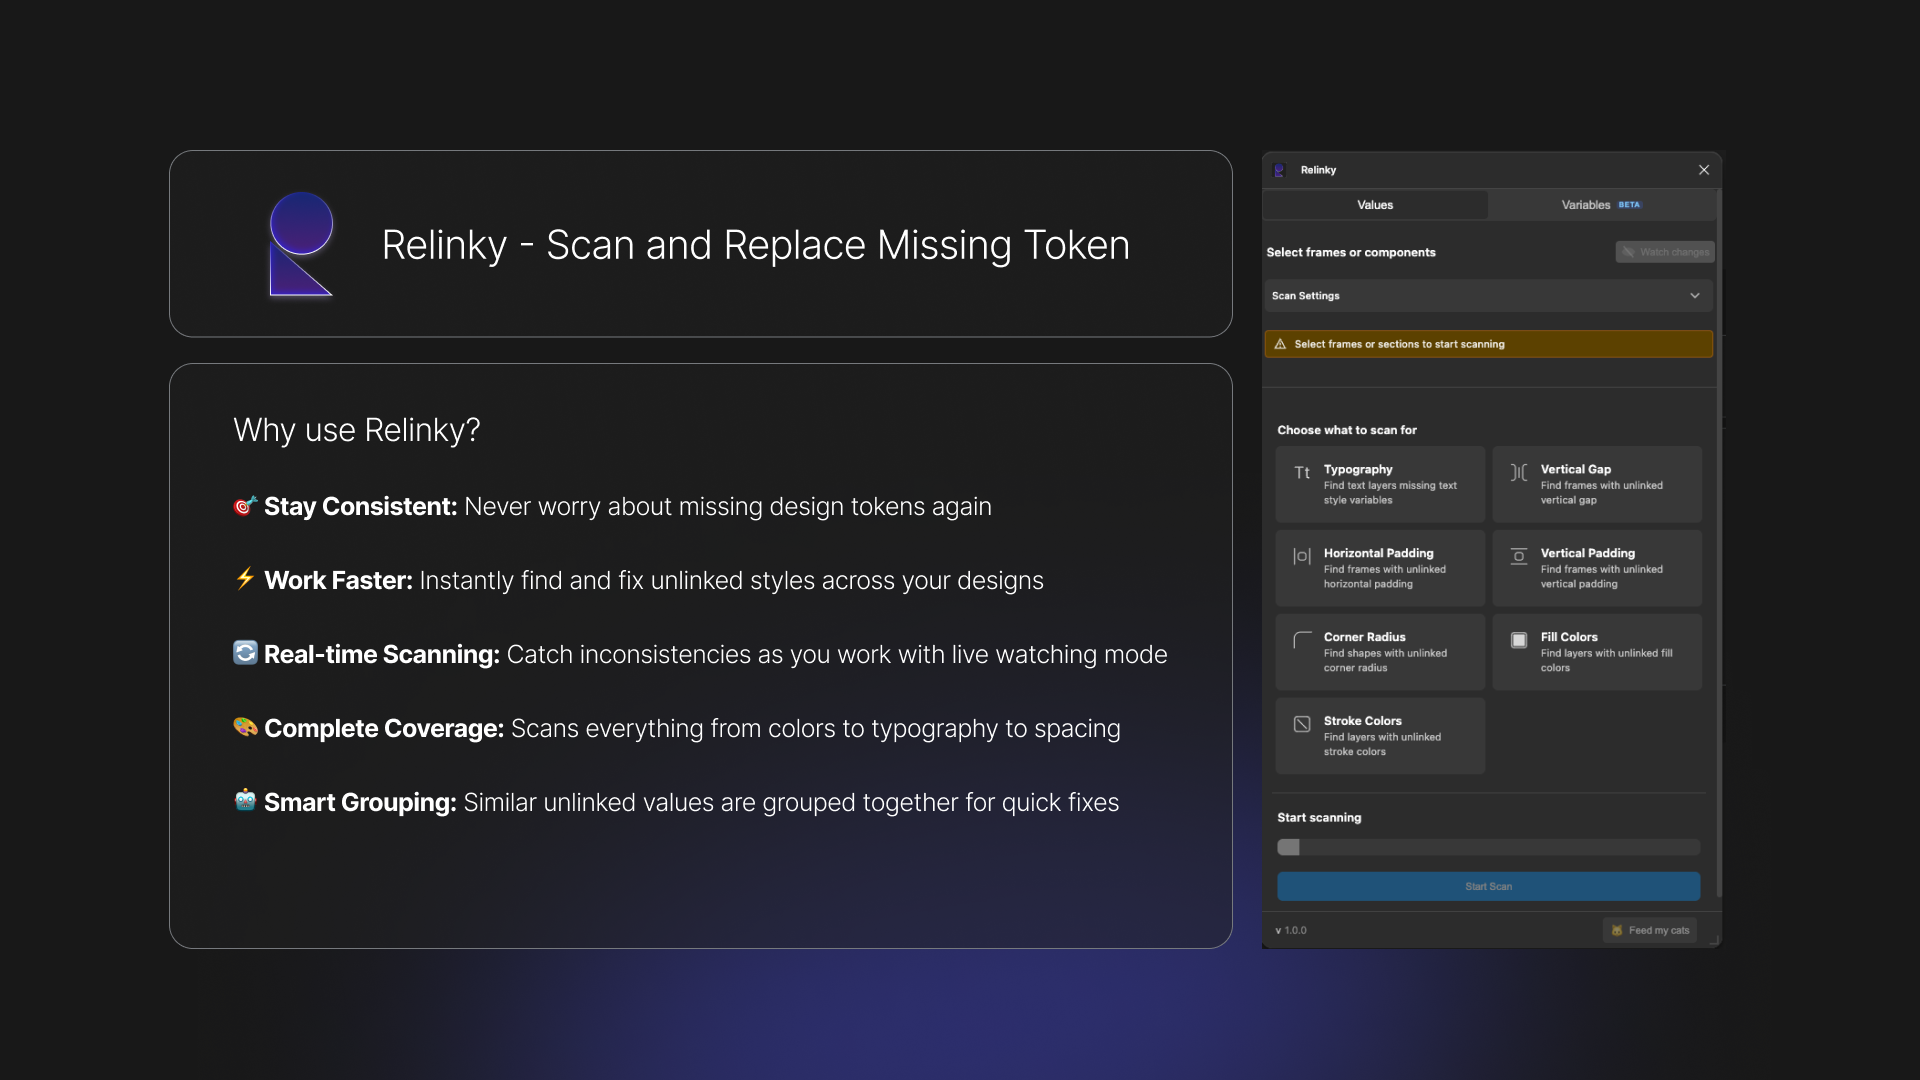
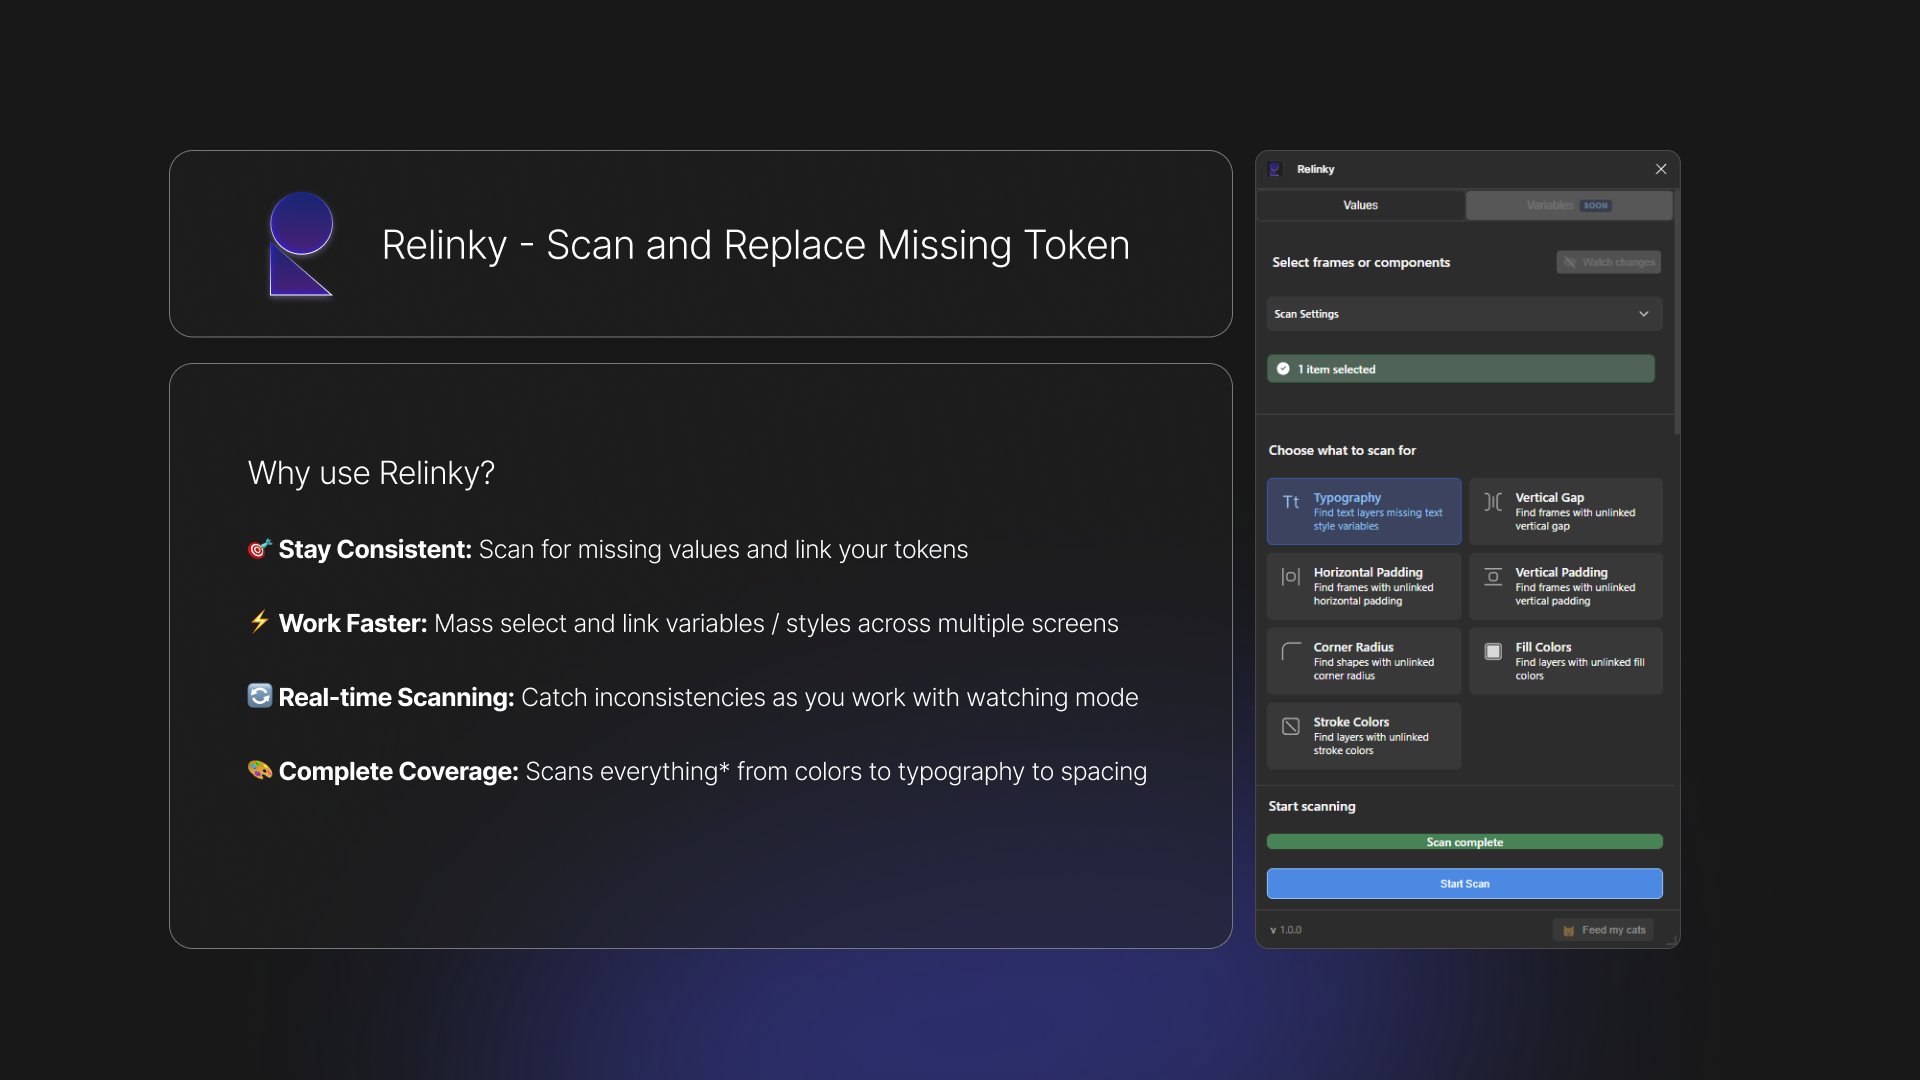
STABLE v1.2.14
Update Cover Image and Adjust Toast Styling

- Replace cover image with a new version
- Modify toast styling by removing margin and adjusting background color
- Simplify warning toast appearance with tertiary background

diff --git a/Relinky - Scan and Relink Components/src/ui.html b/Relinky - Scan and Relink Components/src/ui.html
@@ -151,7 +151,7 @@
                   <span class="toast-message">Instances cannot be scanned. Please select frames, components, or sections instead.</span>
                 </div>
                 <!-- Existing selection messages -->
-                <div v-else-if="!hasSelection && !scanEntirePage" class="toast warning">
+                <div v-else-if="!hasSelection && !scanEntirePage" class="toast">
                   <div class="toast-icon">
                     <svg width="16" height="16" viewBox="0 0 16 16" fill="none">
                       <path fill-rule="evenodd" clip-rule="evenodd" d="M8 1.33337L14.6667 13.3334H1.33334L8 1.33337ZM8 4.00004L3.73334 12H12.2667L8 4.00004ZM7.33334 6.66671H8.66668V9.33337H7.33334V6.66671ZM7.33334 10.6667H8.66668V12H7.33334V10.6667Z" fill="currentColor"/>
@@ -854,7 +854,6 @@
     display: flex;
     align-items: center;
     padding: 6px 8px;
-    margin: 4px 0;
     border-radius: 6px;
     background-color: var(--figma-color-bg-warning-tertiary);
     color: var(--figma-color-text-onwarning-secondary);
@@ -3435,7 +3434,7 @@
     }
 
     .warning {
-        background: var(--figma-color-bg-warning);
+        background: var(--figma-color-bg-warning-tertiary);
         border: 1px solid var(--figma-color-border-warning);
     }
 
